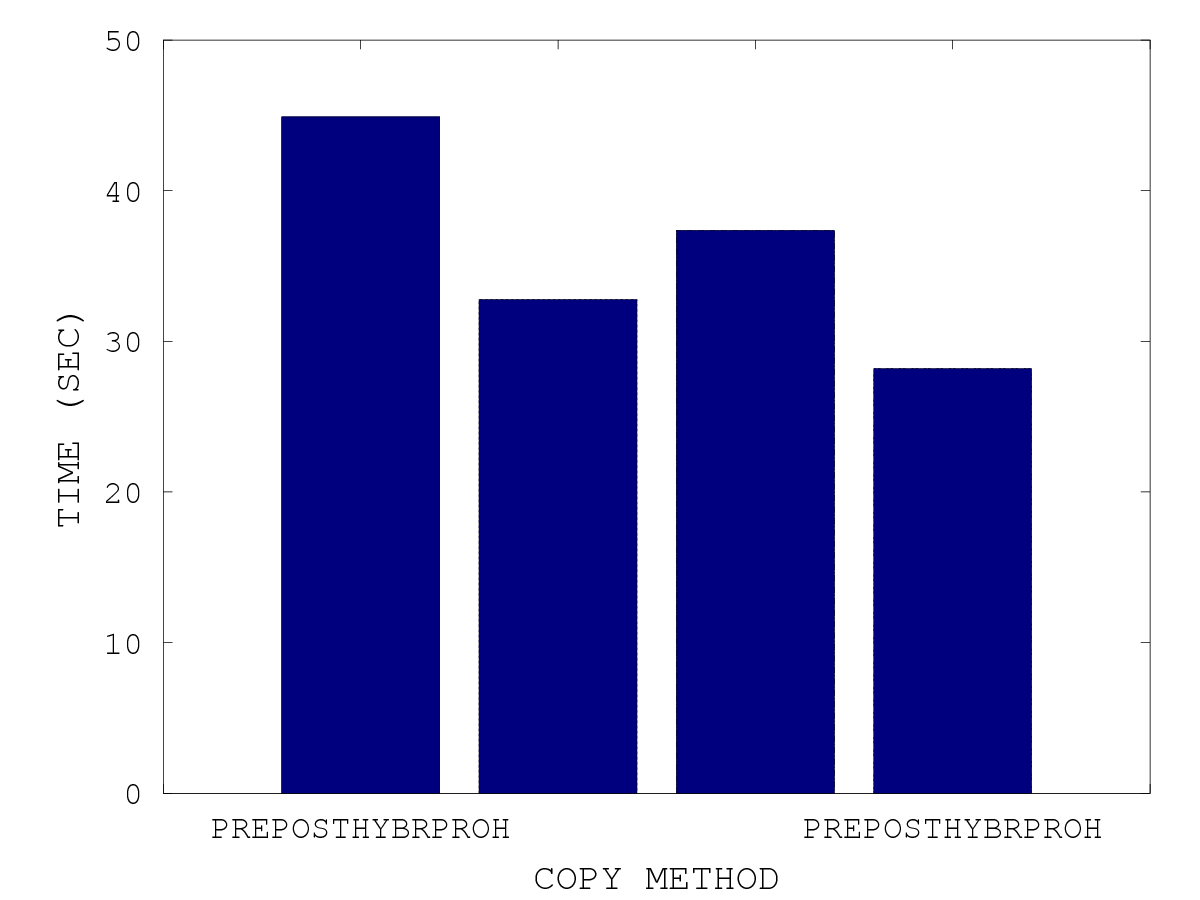
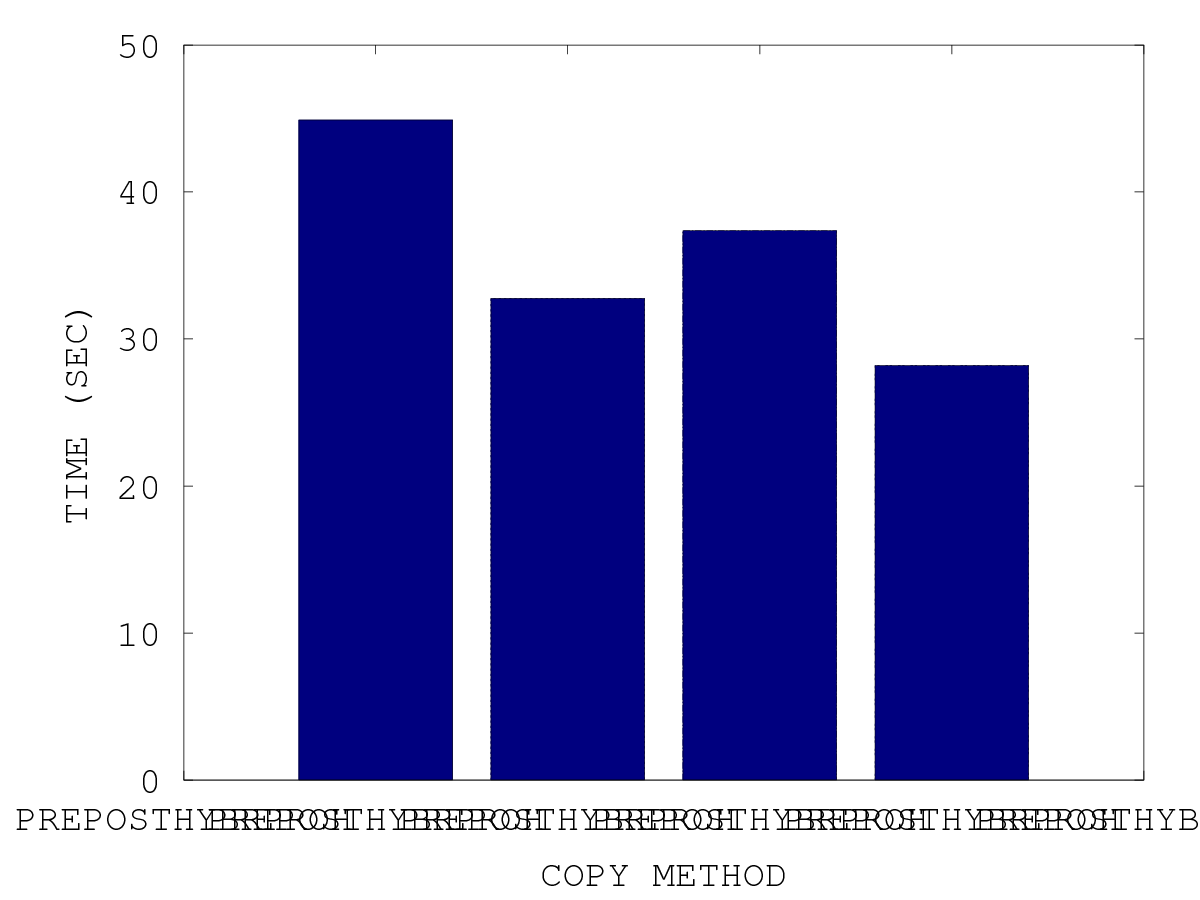
basic.m

diff --git a/basic.m b/basic.m
@@ -226,12 +226,12 @@ figure;
 output = strcat(prefix, ".tt");
 %output = prefix
 x = ['PRECOPY', 'POSTCOPY', 'HYBRID', 'PRO-HYBRID'];
-x = ['PRE', 'POST', 'HYBR', 'PROH'];
+x = ['', 'PRE', 'POST', 'HYBR', 'PROH', ''];
 %x = 1:1:length(A);
 %plot(x, A(:,2)/1000000, x, A(:,3)/1000000, '-.*');
 %plot(A(:,2));
 bar(A(:,1))
-set(gca, 'XTickLabel', {'', x, ''}, 'FontSize', fontsize - 2)
+set(gca, 'XTickLabel', x, 'FontSize', fontsize)
 xlabel('COPY METHOD', 'FontSize', fontsize);
 ylabel('TIME (SEC)', 'FontSize', fontsize);
 %legend('PRECOPY', 'POSTCOPY', 'HYBRID', 'PRO-HYBRID');
